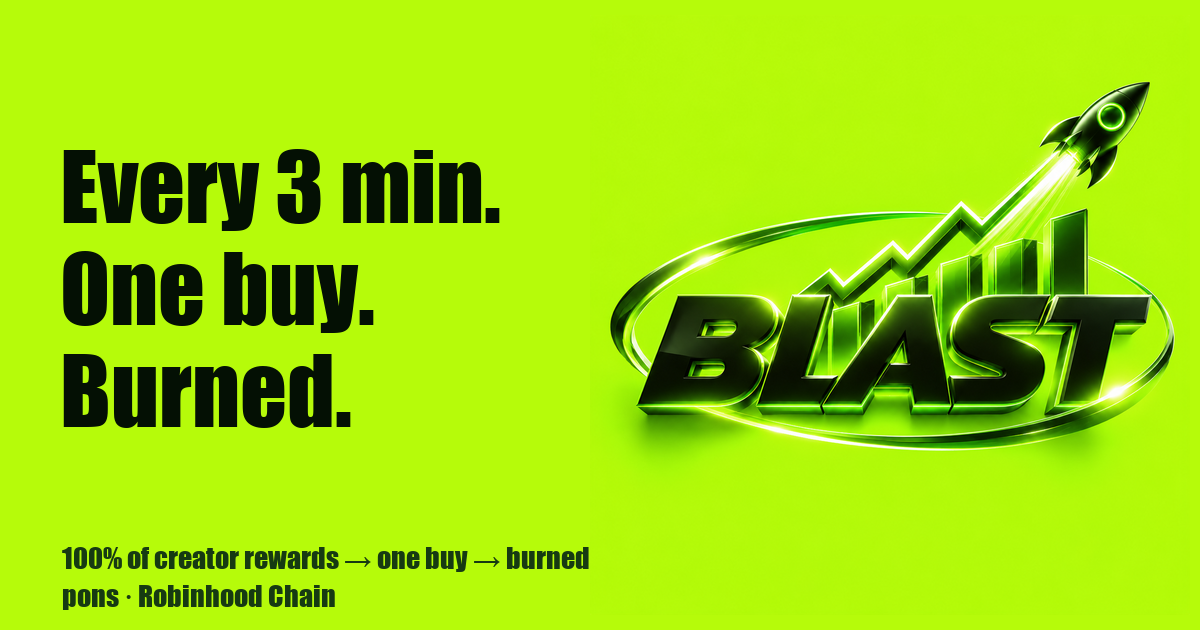
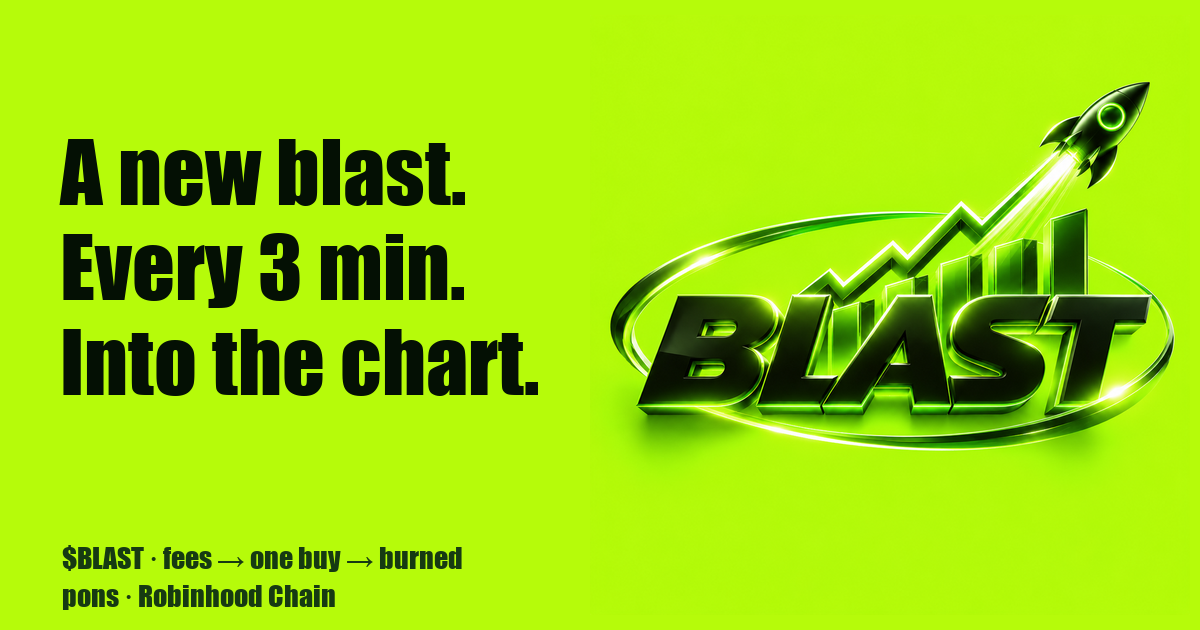
copy: simpler, blast-first wording with $BLAST as the ticker

Changed region(s): [[0.0308, 0.2111, 0.4625, 0.6937], [0.0308, 0.8444, 0.4933, 0.9048]]

diff --git a/backend/public/index.html b/backend/public/index.html
@@ -3,10 +3,10 @@
 <head>
 <meta charset="utf-8">
 <meta name="viewport" content="width=device-width, initial-scale=1">
-<title>BLAST · every 3 minutes, one buy, burned</title>
-<meta name="description" content="Every 3 minutes 100% of the creator rewards are claimed, market-bought into the chart in ONE tx and burned. Supply only goes down. On pons, Robinhood Chain.">
-<meta property="og:title" content="BLAST · every 3 minutes, one buy, burned">
-<meta property="og:description" content="Every 3 minutes 100% of the creator rewards become one buy into the chart — and the tokens are burned. Supply only goes down.">
+<title>BLAST · a new blast into the chart every 3 min</title>
+<meta name="description" content="$BLAST. Every 3 minutes all the creator fees get blasted into the chart in one buy, and the tokens get burned. Every blast makes $BLAST scarcer. On pons, Robinhood Chain.">
+<meta property="og:title" content="BLAST · a new blast into the chart every 3 min">
+<meta property="og:description" content="Every 3 minutes all the $BLAST creator fees become one buy into the chart. Then the tokens are burned. Every blast = less $BLAST.">
 <link rel="icon" href="/icon.png" type="image/png">
 <link rel="apple-touch-icon" href="/icon.png">
 <meta property="og:image" content="/og.png">
@@ -210,8 +210,8 @@
   <div class="hero" id="live">
     <div>
       <div class="eyebrow" id="eyebrow"><span class="chip dark" id="symbol">…</span><span class="chip" id="badge"><span class="dot amber"></span>…</span></div>
-      <h1>Every 3 min.<br>One buy.<br><span class="serif">Burned.</span></h1>
-      <p id="tagline">Every <b>3 minutes</b> the engine claims <b>100% of the creator rewards</b>, buys $BLAST with all of it in <b>one tx</b> and <b>burns</b> what it bought. No team cut. Supply only goes down.</p>
+      <h1>A new blast.<br>Every 3 min.<br><span class="serif">Into the chart.</span></h1>
+      <p id="tagline">All the creator fees of <b>$BLAST</b> get blasted into the chart <b>every 3 minutes</b>. One buy. Then the tokens are <b>burned</b>. No team cut. Every blast = less $BLAST.</p>
       <div class="cta" id="cta"></div>
     </div>
     <div class="art"><img src="/logo.png" alt="BLAST"></div>
@@ -223,11 +223,11 @@
       <div class="clock mono" id="k-next">–:––</div>
     </div>
     <div>
-      <div class="sub" id="window">Creator rewards pile up between blasts. When the clock hits zero, all of it becomes one buy — and burns.</div>
+      <div class="sub" id="window">Fees stack up. The clock hits zero. <b>BLAST.</b> One buy into the chart, then burned.</div>
       <div class="track"><i id="window-bar" style="width:0%"></i></div>
     </div>
     <div class="row">
-      <div><b id="s-pot">–</b><small>pot for this blast</small></div>
+      <div><b id="s-pot">–</b><small>fuel for the next blast</small></div>
       <div><b id="s-last">–</b><small id="s-last-l">last blast</small></div>
     </div>
   </div>
@@ -236,7 +236,7 @@
 
   <div class="grid four kpis">
     <div class="kpi hot"><b id="k-burned">–</b><small id="k-burned-l">burned</small></div>
-    <div class="kpi coal"><b id="k-pct">–</b><small>of the supply gone forever</small></div>
+    <div class="kpi coal"><b id="k-pct">–</b><small>of all $BLAST gone forever</small></div>
     <div class="kpi"><b id="k-sol">–</b><small id="k-sol-l">ETH blasted into the chart</small></div>
     <div class="kpi"><b id="k-blasts">–</b><small>blasts so far</small></div>
   </div>
@@ -254,10 +254,10 @@
     <div class="chart" id="chart">
       <canvas id="cv"></canvas>
       <div class="tip mono" id="tip"></div>
-      <div class="empty" id="empty" style="display:none">No trades yet. The chart draws itself as people buy.</div>
+      <div class="empty" id="empty" style="display:none">No trades yet. The chart starts with the first buy.</div>
     </div>
     <div class="legend">
-      <div><span><i class="l"></i>price (on-chain trades)</span><span><i class="b"></i>blast — one buy, then burned</span></div>
+      <div><span><i class="l"></i>$BLAST price</span><span><i class="b"></i>a blast</span></div>
       <span>drag · scroll to zoom · hover a blast · live from the chain</span>
     </div>
     <div class="burnbar" title="share of the original supply burned"><i id="burnbar" style="width:0%"></i></div>
@@ -265,19 +265,19 @@
   </section>
 
   <section class="card" id="how">
-    <h2>How it works</h2>
-    <p class="lead">No staking, no claim button, no team wallet. Trading fees become buys, buys become ashes.</p>
+    <h2>How BLAST works</h2>
+    <p class="lead">No staking. No claiming. No team wallet. Fees become blasts. Blasts become burns.</p>
     <div class="how">
-      <div class="tile"><div class="n">1</div><b>Fees pile up</b><p>Every trade on pons pays creator rewards. The engine never touches them between blasts — they sit on the curve and in the pons fee escrow, visible on-chain.</p></div>
-      <div class="tile"><div class="n">2</div><b>Every <span id="how-min">3</span> minutes</b><p>On a fixed clock, the engine claims <b>100%</b> of the rewards. Not 80%. Not "most". All of it, minus network fees.</p></div>
-      <div class="tile"><div class="n">3</div><b>One buy</b><p>All the ETH goes into <b>one single market buy</b> — on the bonding curve, or through Uniswap v4 once graduated. A green candle every 3 minutes, funded by the jeets.</p></div>
-      <div class="tile"><div class="n">4</div><b>Burned</b><p>The tokens it just bought are <b>burned</b> in the next tx with the token's own burn function. Total supply drops on Blockscout. Nobody can ever sell them.</p></div>
+      <div class="tile"><div class="n">1</div><b>Fees stack up</b><p>Every trade of $BLAST pays fees to the creator. Nobody touches them. They pile up until the next blast.</p></div>
+      <div class="tile"><div class="n">2</div><b>Every <span id="how-min">3</span> min</b><p>The clock hits zero. <b>100%</b> of the fees get claimed. Not most of it. All of it.</p></div>
+      <div class="tile"><div class="n">3</div><b>BLAST</b><p>All the ETH goes into <b>one buy of $BLAST</b>. One green candle into the chart, on the clock, every 3 minutes.</p></div>
+      <div class="tile"><div class="n">4</div><b>Burned</b><p>The $BLAST the blast just bought is <b>burned</b> right away. Supply drops. Nobody can ever sell it.</p></div>
     </div>
   </section>
 
   <section class="card" id="rules">
-    <h2>The rules</h2>
-    <p class="lead">Every number below is read live from the engine, and every blast leaves three transactions on Blockscout: claim, buy, burn.</p>
+    <h2>The rules of BLAST</h2>
+    <p class="lead">Simple. Every number is live from the engine. Every blast leaves three transactions on Blockscout: claim, blast, burn.</p>
     <div class="rules">
       <ol id="rules-list"></ol>
       <div class="payout">
@@ -328,18 +328,18 @@ async function loadInfo() {
   if (!info.started) {
     document.title = `${brand} · not started yet`;
     $("symbol").textContent = "coin not launched yet"; $("badge").innerHTML = `<span class="dot amber"></span>waiting for the launch`;
-    $("stage-lbl").textContent = "first blast fires at launch"; $("k-next").textContent = "soon"; $("window").textContent = "The engine starts the moment the coin is live on pons.";
+    $("stage-lbl").textContent = "first blast at launch"; $("k-next").textContent = "soon"; $("window").textContent = "Blasts start the moment $BLAST is live on pons.";
     $("fees").innerHTML = `<span>Market data appears with the first trades.</span>`;
-    $("blasts-sub").textContent = `Every ${mins} ${mins === 1 ? "minute" : "minutes"}: claim 100% of the creator rewards, one buy, burn.`;
-    $("foot").textContent = `${brand} on pons, Robinhood Chain. 100% of creator rewards → one buy → burned.`;
+    $("blasts-sub").textContent = `Every ${mins} ${mins === 1 ? "minute" : "minutes"}: claim the fees, blast them into the chart, burn what came back.`;
+    $("foot").textContent = `$${brand} on pons, Robinhood Chain. A new blast into the chart every 3 minutes.`;
     renderRules(rules);
     return;
   }
   document.title = `${brand} · ${SYM()}`;
   EXPLORER = (info.links?.tx || EXPLORER + "/tx/").replace(/\/tx\/$/, "");
   $("symbol").textContent = `${SYM()} · ${info.phase === 2 ? "Uniswap v4" : info.phase === 1 ? "graduating" : "bonding curve"}`;
-  $("links").innerHTML = `<span class="pill ghost small hide-sm">pons · Robinhood Chain</span><a class="pill hot" href="${info.links.pons}" target="_blank" rel="noopener">Buy on pons ↗</a>`;
-  $("cta").innerHTML = `<a class="pill hot" href="${info.links.pons}" target="_blank" rel="noopener">Buy on pons ↗</a><a class="pill" href="#blasts">See the burns</a><span class="pill ghost mono" id="ca" title="copy contract address">${short(info.token)} ⧉</span>`;
+  $("links").innerHTML = `<span class="pill ghost small hide-sm">pons · Robinhood Chain</span><a class="pill hot" href="${info.links.pons}" target="_blank" rel="noopener">Buy $BLAST ↗</a>`;
+  $("cta").innerHTML = `<a class="pill hot" href="${info.links.pons}" target="_blank" rel="noopener">Buy ${SYM()} ↗</a><a class="pill" href="#blasts">See the blasts</a><span class="pill ghost mono" id="ca" title="copy contract address">${short(info.token)} ⧉</span>`;
   $("ca").onclick = () => { navigator.clipboard.writeText(info.token); $("ca").textContent = "copied"; setTimeout(() => $("ca").textContent = `${short(info.token)} ⧉`, 1200); };
   const fl = [`<a class="pill small" href="${info.links.explorer}" target="_blank" rel="noopener">Blockscout</a>`, `<a class="pill small" href="${info.links.pons}" target="_blank" rel="noopener">pons</a>`, `<a class="pill small" href="${info.links.wallet}" target="_blank" rel="noopener">Engine wallet</a>`];
   if (info.brand?.twitter) fl.push(`<a class="pill small" href="${info.brand.twitter}" target="_blank" rel="noopener">X</a>`);
@@ -349,12 +349,12 @@ async function loadInfo() {
   if (!info.schedulerEnabled) badge.innerHTML = `<span class="dot red"></span>paused · blasts off`;
   else if (DRY()) badge.innerHTML = `<span class="dot amber"></span>${info.mode === "watch" ? "watch mode · dry blasts" : "dry run · nothing moves"}`;
   else badge.innerHTML = `<span class="dot"></span>live · real burns`;
-  $("tagline").innerHTML = `Every <b>${mins} ${mins === 1 ? "minute" : "minutes"}</b> the engine claims <b>100% of the creator rewards</b>, buys ${SYM()} with all of it in <b>one tx</b> and <b>burns</b> what it bought. No team cut. Supply only goes down.`;
+  $("tagline").innerHTML = `All the creator fees of <b>${SYM()}</b> get blasted into the chart <b>every ${mins} ${mins === 1 ? "minute" : "minutes"}</b>. One buy. Then the tokens are <b>burned</b>. No team cut. Every blast = less ${SYM()}.`;
   renderRules(rules);
   const burned = DRY() ? (info.dryTotals?.burned || 0) : info.burned;
   const spentSol = DRY() ? (info.dryTotals?.spentEth || 0) : info.totalSpentEth;
   const blastsRun = DRY() ? (info.dryTotals?.blasts || 0) : info.blastsRun;
-  $("k-burned").textContent = compact(burned); $("k-burned-l").textContent = `${SYM()} burned${DRY() ? " (dry, would-be)" : ""}`;
+  $("k-burned").textContent = compact(burned); $("k-burned-l").textContent = `${SYM()} burned by blasts${DRY() ? " (dry, would-be)" : ""}`;
   $("k-pct").textContent = `${((info.supply0 ? burned / info.supply0 : 0) * 100).toFixed(3)}%`;
   $("k-sol").textContent = `${fmt(spentSol, 4)} ETH`; $("k-sol-l").textContent = `${info.ethUsd ? usd(spentSol * info.ethUsd) + " " : ""}blasted into the chart${DRY() ? " (dry)" : ""}`;
   $("k-blasts").textContent = blastsRun;
@@ -381,27 +381,27 @@ async function loadInfo() {
   $("under").innerHTML = info.priceUsd ? `${priceLabel(info.priceUsd)} per ${SYM()} · real mcap after burns <b>${usd(info.realMcapUsd)}</b> · ETH ${usd(info.ethUsd)} · updated ${ago(info.marketUpdatedAt)}` : "";
   $("burnbar").style.width = `${Math.min(100, (info.supply0 ? info.burned / info.supply0 : 0) * 100)}%`;
   $("burn-under").innerHTML = `<b>${fmt(info.burned, 0)}</b> ${SYM()} burned on-chain (${((info.supply0 ? info.burned / info.supply0 : 0) * 100).toFixed(4)}% of ${compact(info.supply0)})${info.blastsRun ? ` across ${info.blastsRun} blasts` : ""}.`;
-  $("blasts-sub").textContent = `Every ${mins} ${mins === 1 ? "minute" : "minutes"}: claim, one buy, burn. Three transactions each, all on Blockscout.` + (DRY() ? " Blasts are dry right now — the engine records what it would do." : "");
-  $("foot").innerHTML = `${brand} on pons, Robinhood Chain. 100% of creator rewards → one buy → burned, every ${mins} ${mins === 1 ? "minute" : "minutes"}.<br>Engine wallet <span class="mono">${info.wallet}</span>. Nothing here is financial advice.`;
+  $("blasts-sub").textContent = `Every ${mins} ${mins === 1 ? "minute" : "minutes"}: claim, blast, burn. Three transactions each, all on Blockscout.` + (DRY() ? " Blasts are dry right now — the engine records what it would do." : "");
+  $("foot").innerHTML = `${SYM()} on pons, Robinhood Chain. A new blast into the chart every ${mins} ${mins === 1 ? "minute" : "minutes"}.<br>Engine wallet <span class="mono">${info.wallet}</span>. Nothing here is financial advice.`;
   showProgress(info.progress);
 }
 
 function renderRules(rules) {
   const mins = Math.round((rules.intervalSec ?? 180) / 60);
   $("rules-list").innerHTML = [
-    ["A fixed clock", `A blast fires every ${mins} ${mins === 1 ? "minute" : "minutes"}, on the dot, from genesis. Nobody can time it, because everybody can.`],
-    ["100% of the creator rewards", `Everything pons pays the creator — curve fees before graduation, pool fees after — is claimed from the fee escrow into the engine wallet. The team keeps nothing.`],
-    ["One buy, all of it", `The full balance (minus ${rules.gasReserveEth} ETH kept for gas) becomes one market buy on the bonding curve, or through the Uniswap v4 Universal Router once graduated.`],
-    ["Burned, not held", `The tokens it bought are burned with the token's burn() — total supply drops on Blockscout, nothing sits in a wallet.`],
-    ["Dust rolls over", `A pot under ${rules.minBuyEth} ETH isn't worth a tx — it stays in the wallet and joins the next blast. A failed buy or burn is retried next blast.`],
+    ["On the clock", `A blast fires every ${mins} ${mins === 1 ? "minute" : "minutes"}. Always. Nobody can time it, everybody can see it coming.`],
+    ["100% of the fees", `Everything pons pays the creator of ${SYM()} goes into the blast. Curve fees before graduation, pool fees after. The team keeps nothing.`],
+    ["One buy", `All the ETH (minus ${rules.gasReserveEth} ETH for gas) becomes one buy of ${SYM()}. On the curve, or on Uniswap v4 once graduated.`],
+    ["Burned", `What the blast bought is burned with burn(). Supply goes down on Blockscout. Nothing sits in a wallet.`],
+    ["Small fees wait", `Under ${rules.minBuyEth} ETH? It waits and joins the next blast. A failed blast retries on the next one.`],
   ].map(([b, s]) => `<li><b>${b}</b><span>${s}</span></li>`).join("");
   $("rules-split").innerHTML = [
-    ["Interval", `${mins} min`], ["Share of rewards blasted", "100%"], ["Team cut", "0%"],
+    ["Blast every", `${mins} min`], ["Fees blasted", "100%"], ["Team cut", "0%"],
     ["Minimum blast", `${rules.minBuyEth} ETH`], ["Gas reserve", `${rules.gasReserveEth} ETH`], ["Slippage", `${rules.slippagePct}%`],
   ].map(([k, v]) => `<div class="line"><span>${k}</span><b>${v}</b></div>`).join("");
   $("rules-ex").innerHTML = info?.started
-    ? `Engine wallet: <a class="mono" href="${info.links.wallet}" target="_blank" rel="noopener">${short(info.wallet)}</a> — every claim, buy and burn signed from here. Check the supply on <a href="${info.links.explorer}" target="_blank" rel="noopener">Blockscout</a>.`
-    : `The engine wallet is the launch's creator fee recipient — every claim, buy and burn is signed from it and visible on Blockscout.`;
+    ? `Engine wallet: <a class="mono" href="${info.links.wallet}" target="_blank" rel="noopener">${short(info.wallet)}</a> — every claim, blast and burn signed from here. Check the supply on <a href="${info.links.explorer}" target="_blank" rel="noopener">Blockscout</a>.`
+    : `The engine wallet is the creator wallet of $BLAST — every claim, blast and burn is signed from it and visible on Blockscout.`;
 }
 
 function showProgress(p) {
@@ -411,10 +411,10 @@ function showProgress(p) {
   const steps = ["claiming", "buying", "burning"];
   const idx = steps.indexOf(p.status);
   const cls = (s, i) => p.status === "done" || p.status === "skipped" ? "done" : i < idx ? "done" : i === idx ? "on" : "";
-  const head = p.status === "done" ? `<b>Blast #${p.blastId} done${p.dry ? " (dry)" : ""}.</b> ${p.note || ""}`
+  const head = p.status === "done" ? `<b>Blast #${p.blastId} fired${p.dry ? " (dry)" : ""}.</b> ${p.note || ""}`
     : p.status === "skipped" ? `<b>Blast #${p.blastId} rolled over.</b> ${p.note || ""}`
     : p.status === "failed" ? `<b>Blast #${p.blastId} failed.</b> ${p.note || "retrying next blast"}`
-    : `<b>Blast #${p.blastId} firing${p.dry ? " (dry)" : ""}…</b> pot ${fmt(p.pot, 5)} ETH`;
+    : `<b>Blast #${p.blastId} firing${p.dry ? " (dry)" : ""}…</b> ${fmt(p.pot, 5)} ETH into the chart`;
   const tx = (k, label) => p.txs?.[k] ? ` <a class="paid" href="${EXPLORER}/tx/${p.txs[k]}" target="_blank" rel="noopener">${label} tx ↗</a>` : "";
   el.innerHTML = `${head}<div class="steps">${steps.map((s, i) => `<span class="step ${cls(s, i)}">${i + 1}. ${s}${s === "claiming" ? tx("claim", "") : s === "buying" ? tx("buy", "") : tx("burn", "")}</span>`).join("")}</div>`;
   if ((p.status === "done" || p.status === "skipped") && p.blastId !== lastDone) { lastDone = p.blastId; loadBlasts(); loadChart(); }
@@ -592,13 +592,13 @@ async function loadBlasts() {
   const r = await fetch("/api/blasts"); if (!r.ok) return;
   const rows = await r.json();
   const el = $("blasts-list");
-  if (!rows.length) { el.innerHTML = `<p class="empty-note">No blasts yet. The first one fires ${Math.round((info.rules.intervalSec || 180) / 60)} minutes after genesis.</p>`; return; }
+  if (!rows.length) { el.innerHTML = `<p class="empty-note">No blasts yet. The first one fires ${Math.round((info.rules.intervalSec || 180) / 60)} minutes after launch.</p>`; return; }
   const tx = (sig, label) => sig ? `<a href="${EXPLORER}/tx/${sig}" target="_blank" rel="noopener">${label} ↗</a>` : "";
   el.innerHTML = rows.map((b) => {
     const links = [tx(b.claimTx, "claim"), tx(b.buyTx, "buy"), tx(b.burnTx, "burn")].filter(Boolean).join(" · ");
     const who = b.status === "done"
-      ? `${b.dry ? "would claim" : "claimed"} <span>${fmt(b.claimedEth, 5)} ETH</span>, one buy of <span>${fmt(b.spentEth, 5)} ETH</span>${b.venue ? ` on ${b.venue}` : ""}, burned <span>${fmt(b.tokensBurned, 0)} ${SYM()}</span>${b.supplyAfter ? ` · supply now ${compact(b.supplyAfter)}` : ""}${links ? `<br>${links}` : ""}`
-      : b.status === "skipped" ? `pot ${fmt(b.potEth, 5)} ETH — under the minimum, rolled into the next blast`
+      ? `${b.dry ? "would claim" : "claimed"} <span>${fmt(b.claimedEth, 5)} ETH</span>, blasted <span>${fmt(b.spentEth, 5)} ETH</span> into the chart${b.venue ? ` on ${b.venue}` : ""}, burned <span>${fmt(b.tokensBurned, 0)} ${SYM()}</span>${b.supplyAfter ? ` · supply now ${compact(b.supplyAfter)}` : ""}${links ? `<br>${links}` : ""}`
+      : b.status === "skipped" ? `${fmt(b.potEth, 5)} ETH — too small, waits for the next blast`
       : `failed — ${b.note || "retrying next blast"}${links ? `<br>${links}` : ""}`;
     return `<div class="round" data-blast="${b.id}">
       <div class="n">Blast #${b.id}<small>${whenFull(b.t)}</small></div>
